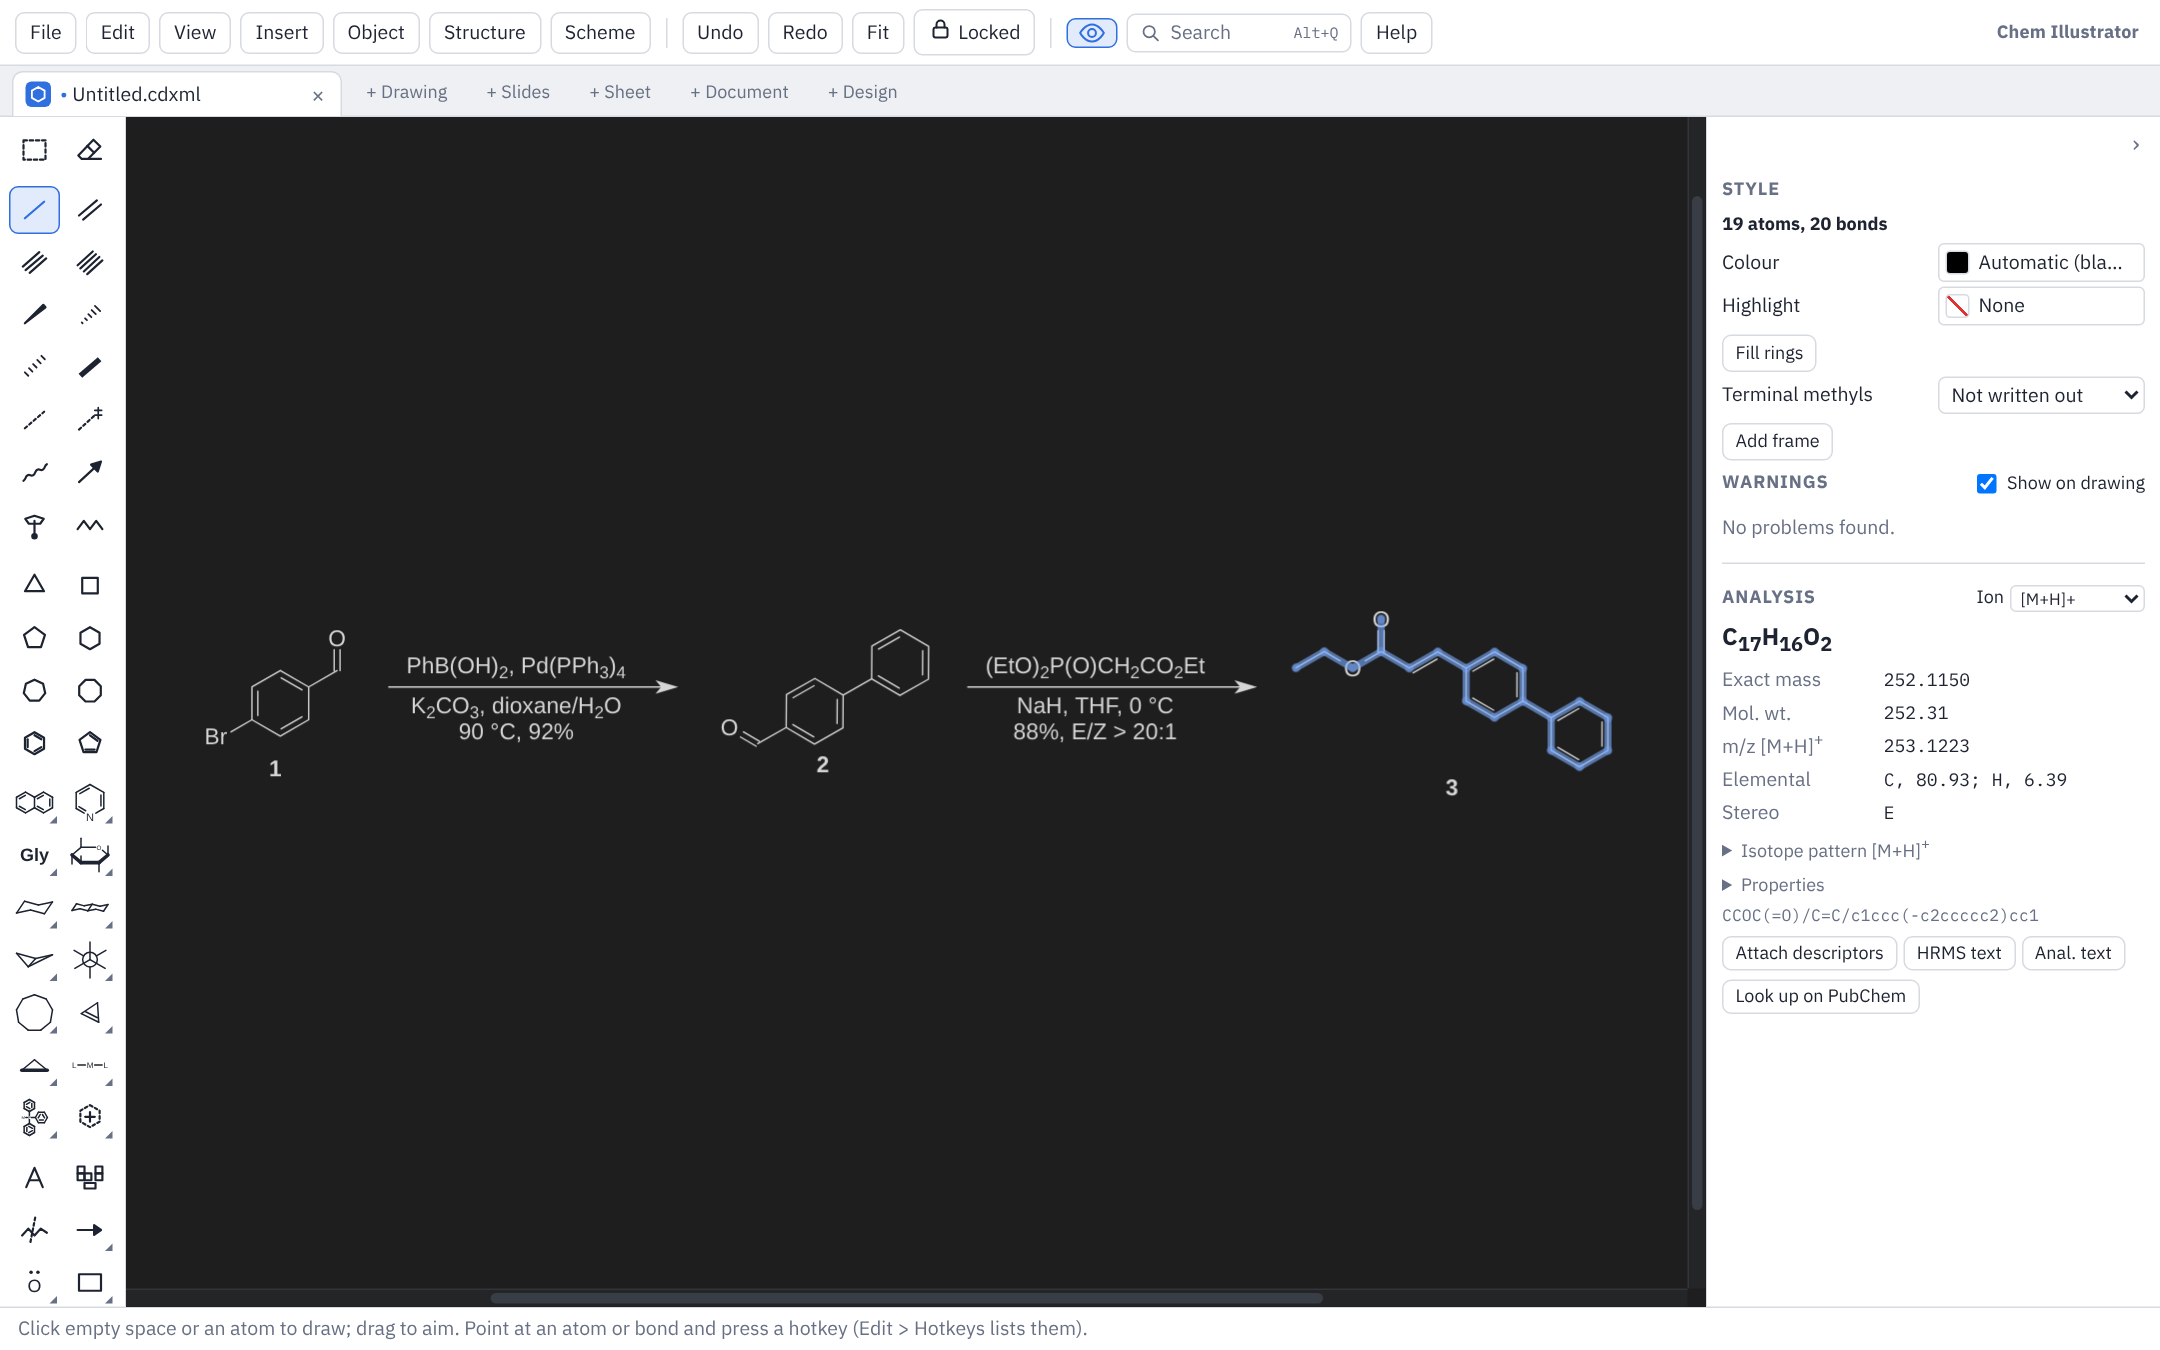
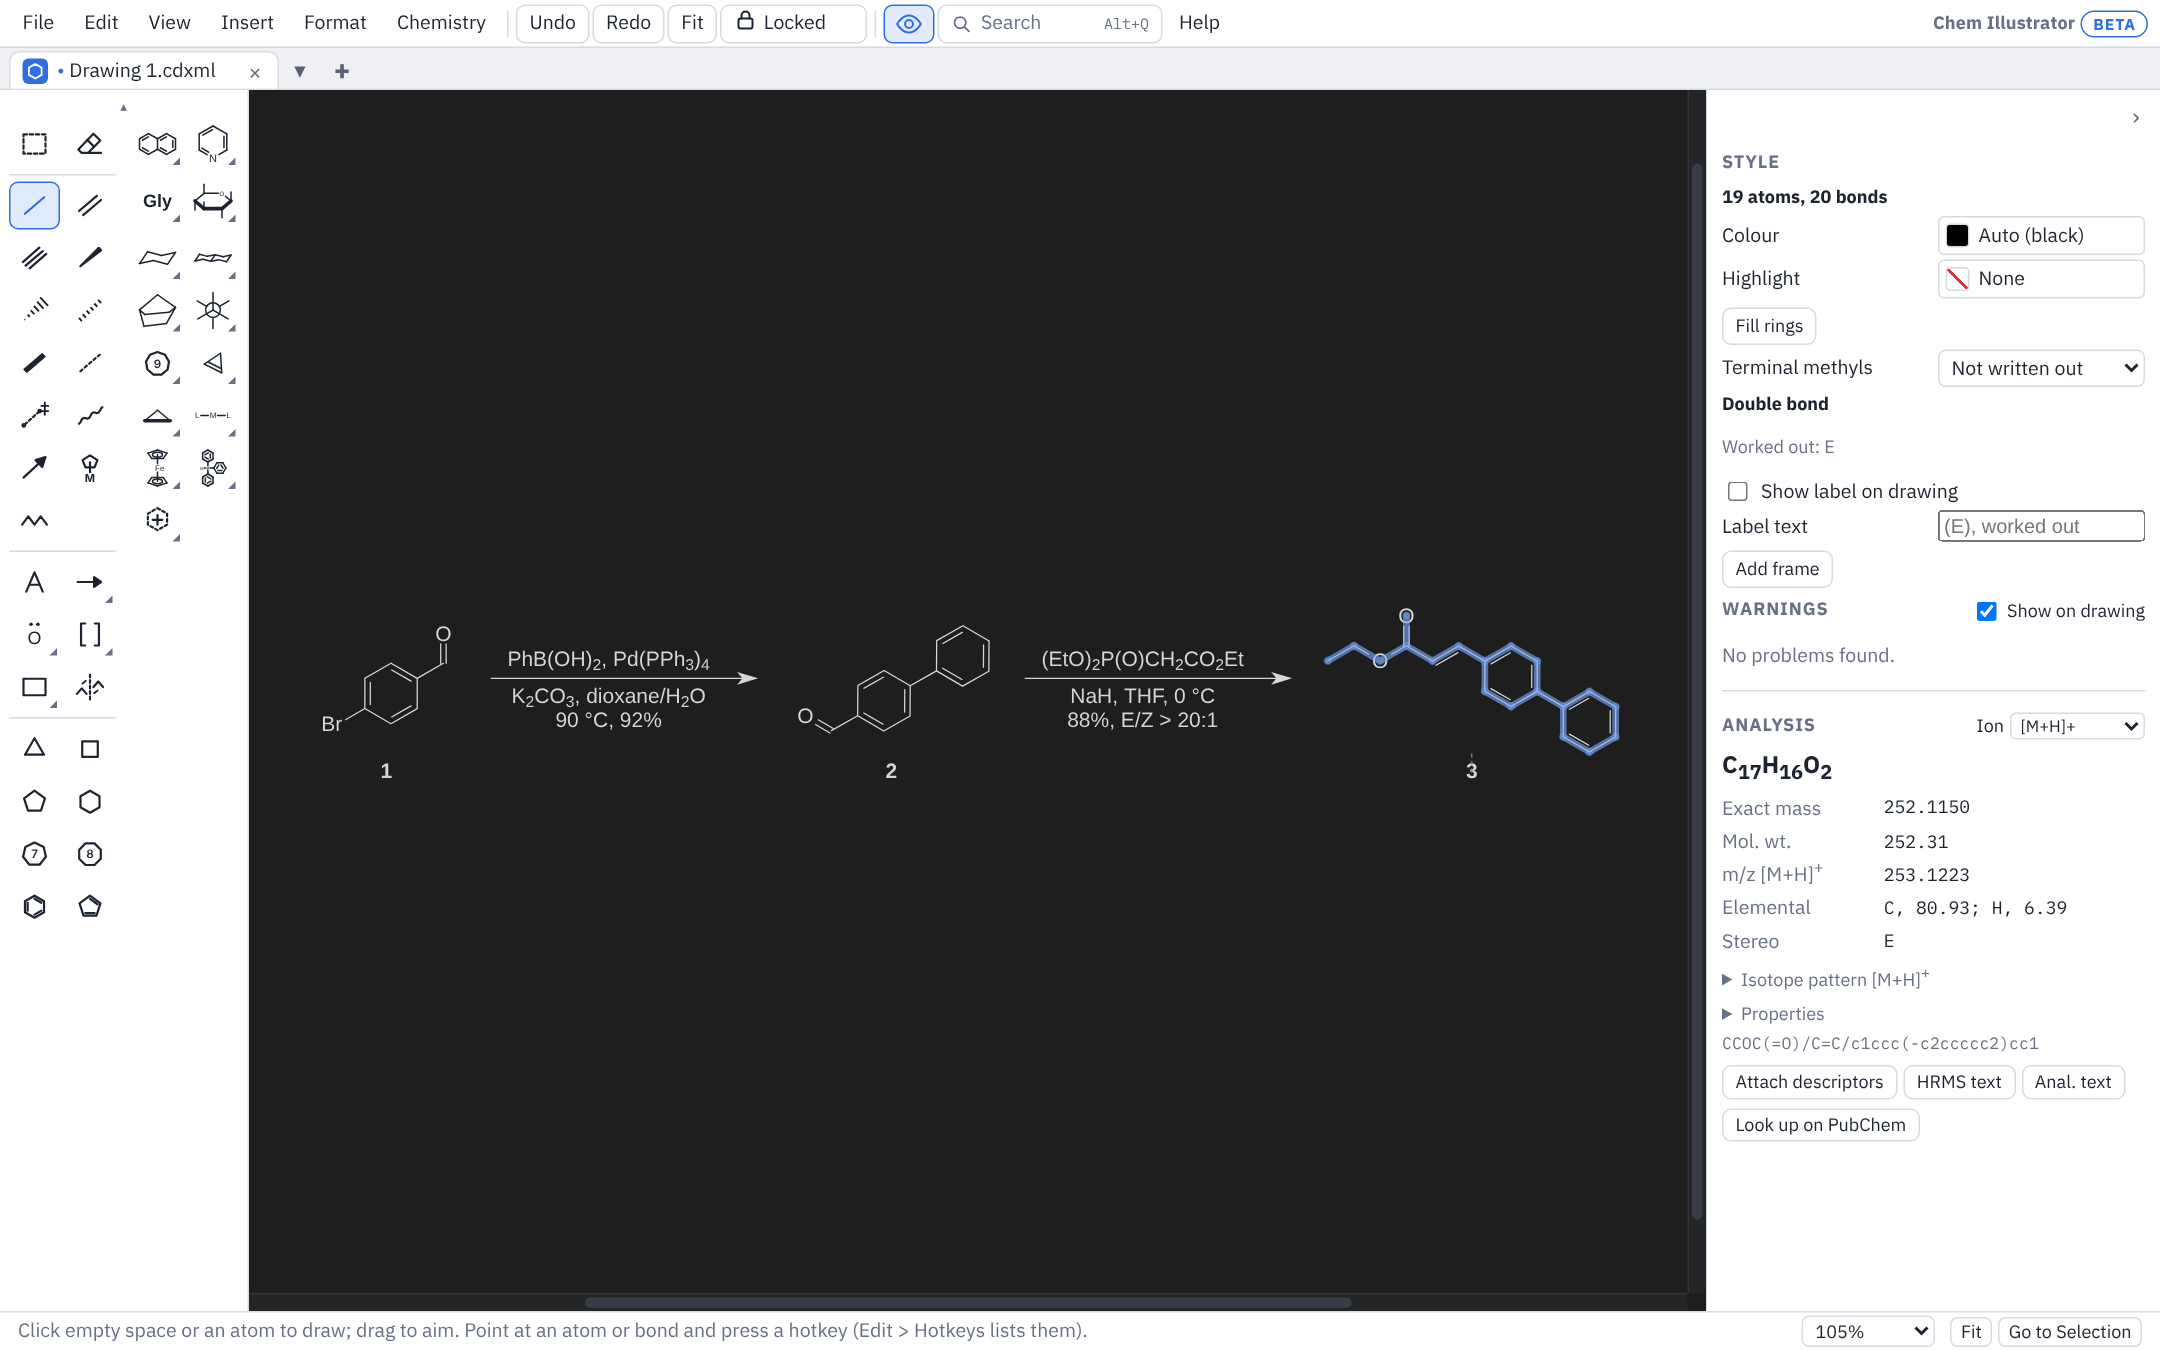
README showcase: energy diagram, navigation, dark interface, Office chemistry GIFs; retake screenshots
Claude-Session: https://claude.ai/code/session_015J12orPpFwxezS8exTcRtt

diff --git a/vite.config.ts b/vite.config.ts
@@ -3,7 +3,8 @@ import { defineConfig } from 'vite';
 export default defineConfig({
   base: './',
   // The desktop app's development mode expects this exact port (src-tauri/tauri.conf.json).
-  server: { port: 5173, strictPort: true },
+  // docs/ holds the README pictures; the picture scripts write there while the page is open, so don't reload it
+  server: { port: 5173, strictPort: true, watch: { ignored: ['**/docs/**'] } },
   build: {
     target: 'es2022',
     assetsInlineLimit: 0,

diff --git a/README.md b/README.md
@@ -63,6 +63,12 @@ Fill rings with a colour, a gradient, hatching or dots (patterns can be see-thro
 
 Select anything and the side panel shows its formula, exact mass, m/z for the ion you pick, elemental analysis, isotope pattern, cLogP and TPSA. R/S and E/Z come from the IUPAC 2013 rules, including axial chirality, and atoms with impossible valences get a red mark.
 
+## Energy diagrams
+
+**Chemistry ▸ Energy Diagram** draws a reaction coordinate diagram from a table of levels: compare pathways in different colours, mark the barrier, and draw structures right on the levels.
+
+![An energy diagram comparing a thermal and a BF₃-catalysed Diels–Alder pathway, with ΔG‡ marked and the diene, dienophile and product drawn on their levels (illustrative values)](docs/images/energy-diagram.png)
+
 ## Spelling and chemistry checked everywhere
 
 Text on drawings, slides and documents is spell-checked, and a second check catches chemistry formatting slips: formulas without subscripts, deuterated solvents, a number glued to its unit (5mL), a hyphen in a range (10-15), and the nucleus before "NMR". Right-click a marked word for the fix. Formulas are also formatted as you type (CH2Cl2 becomes CH₂Cl₂).
@@ -75,6 +81,18 @@ The eye button shows the page dark on screen, with your structures in light ink.
 
 ![Turning the dark page on, then switching its colours between palettes](docs/images/dark-mode.gif)
 
+The interface itself follows your system's dark setting, in every mode:
+
+| Drawing | Slides | Sheets |
+|---|---|---|
+| ![Drawing mode with a dark interface and a white page](docs/images/drawing-dark-ui.png) | ![Slides mode with a dark interface](docs/images/slides-dark-ui.png) | ![Sheet mode with a dark interface](docs/images/sheet-dark-ui.png) |
+
+## Getting round a big drawing
+
+Right-drag or middle-drag to pan, Ctrl+wheel to zoom in on the spot under the pointer, and Shift+wheel to scroll sideways. A small navigator map in the corner shows where you are in the whole drawing.
+
+![Panning a long route with the right and middle mouse buttons, zooming at the pointer with Ctrl+wheel and scrolling sideways with Shift+wheel, with the keys and buttons shown as they are pressed](docs/images/navigation.gif)
+
 ## Make it yours
 
 Every hotkey can be changed (**Edit ▸ Hotkeys**), and the hotkeys can be exported and shared. Toolboxes unlock to dock on any edge or float anywhere, and **Customize Toolboxes** rearranges any of them (or new ones of your own) by dragging icons about, as on a phone's home screen. The dark page colours, each mode's accent colour, the scheme spacing, your own templates, nicknames and drawing styles are all settings, kept in one file you can export and import on another computer.
@@ -82,6 +100,13 @@ Every hotkey can be changed (**Edit ▸ Hotkeys**), and the hotkeys can be expor
 ![Toolboxes moved to new places, the dark page in Slate colours, and the Hotkeys window open](docs/images/customize.png)
 
 ## Slides, sheets, documents and designs
+
+Each mode works like the Office program it is named after, and adds what Office can't do for a chemist.
+
+| Highlights that step in during a talk | A reagent table that works itself out |
+|---|---|
+| ![A slide show of a two-step scheme: each click fades in a highlight, first on the bromide, then on the new phenyl ring, then on the new C=C bond](docs/images/slide-highlights.gif) | ![Typing names and a SMILES into a reagent table: each structure is drawn in its cell and the MW, mmol, mass and volume fill in](docs/images/reagent-table.gif) |
+| Highlight part of a structure and animate it like any other object: it plays in the slide show and in PowerPoint. **Animate Reaction** can also put a reaction movie on a slide. | Type a name or SMILES and the structure is drawn in the cell; the MW, amounts, masses and volumes follow from the equivalents. |
 
 | Slides | Sheets |
 |---|---|
